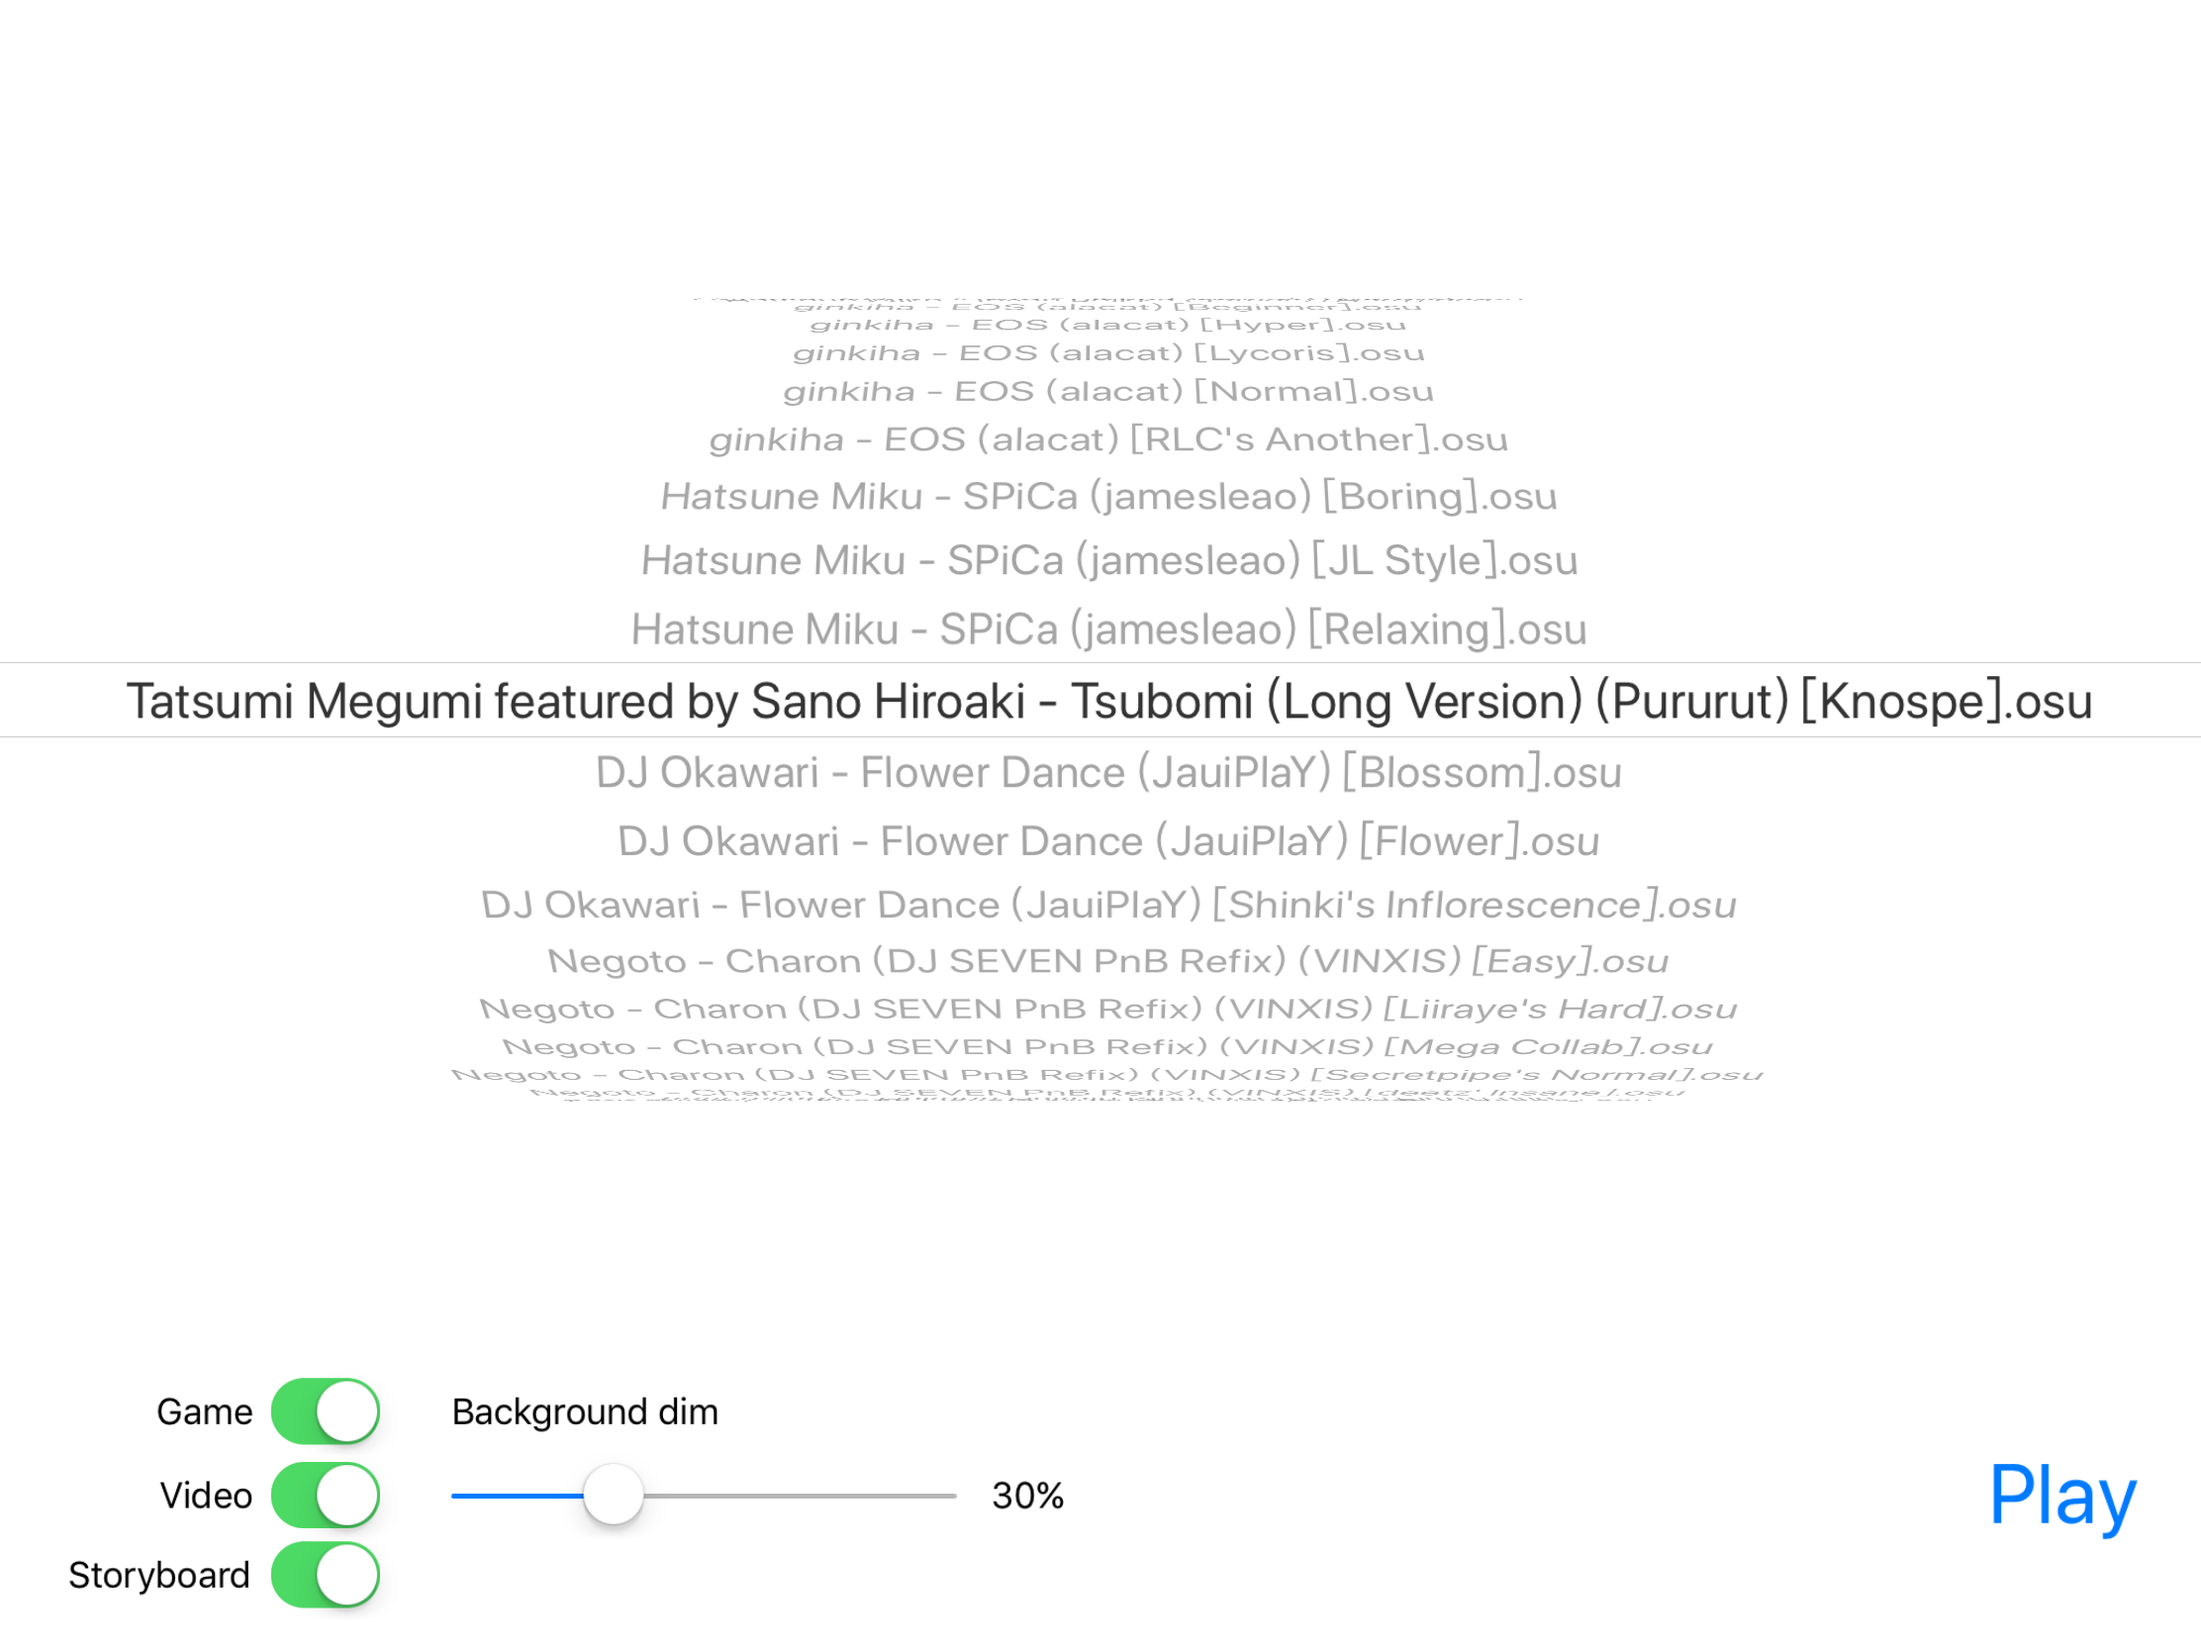
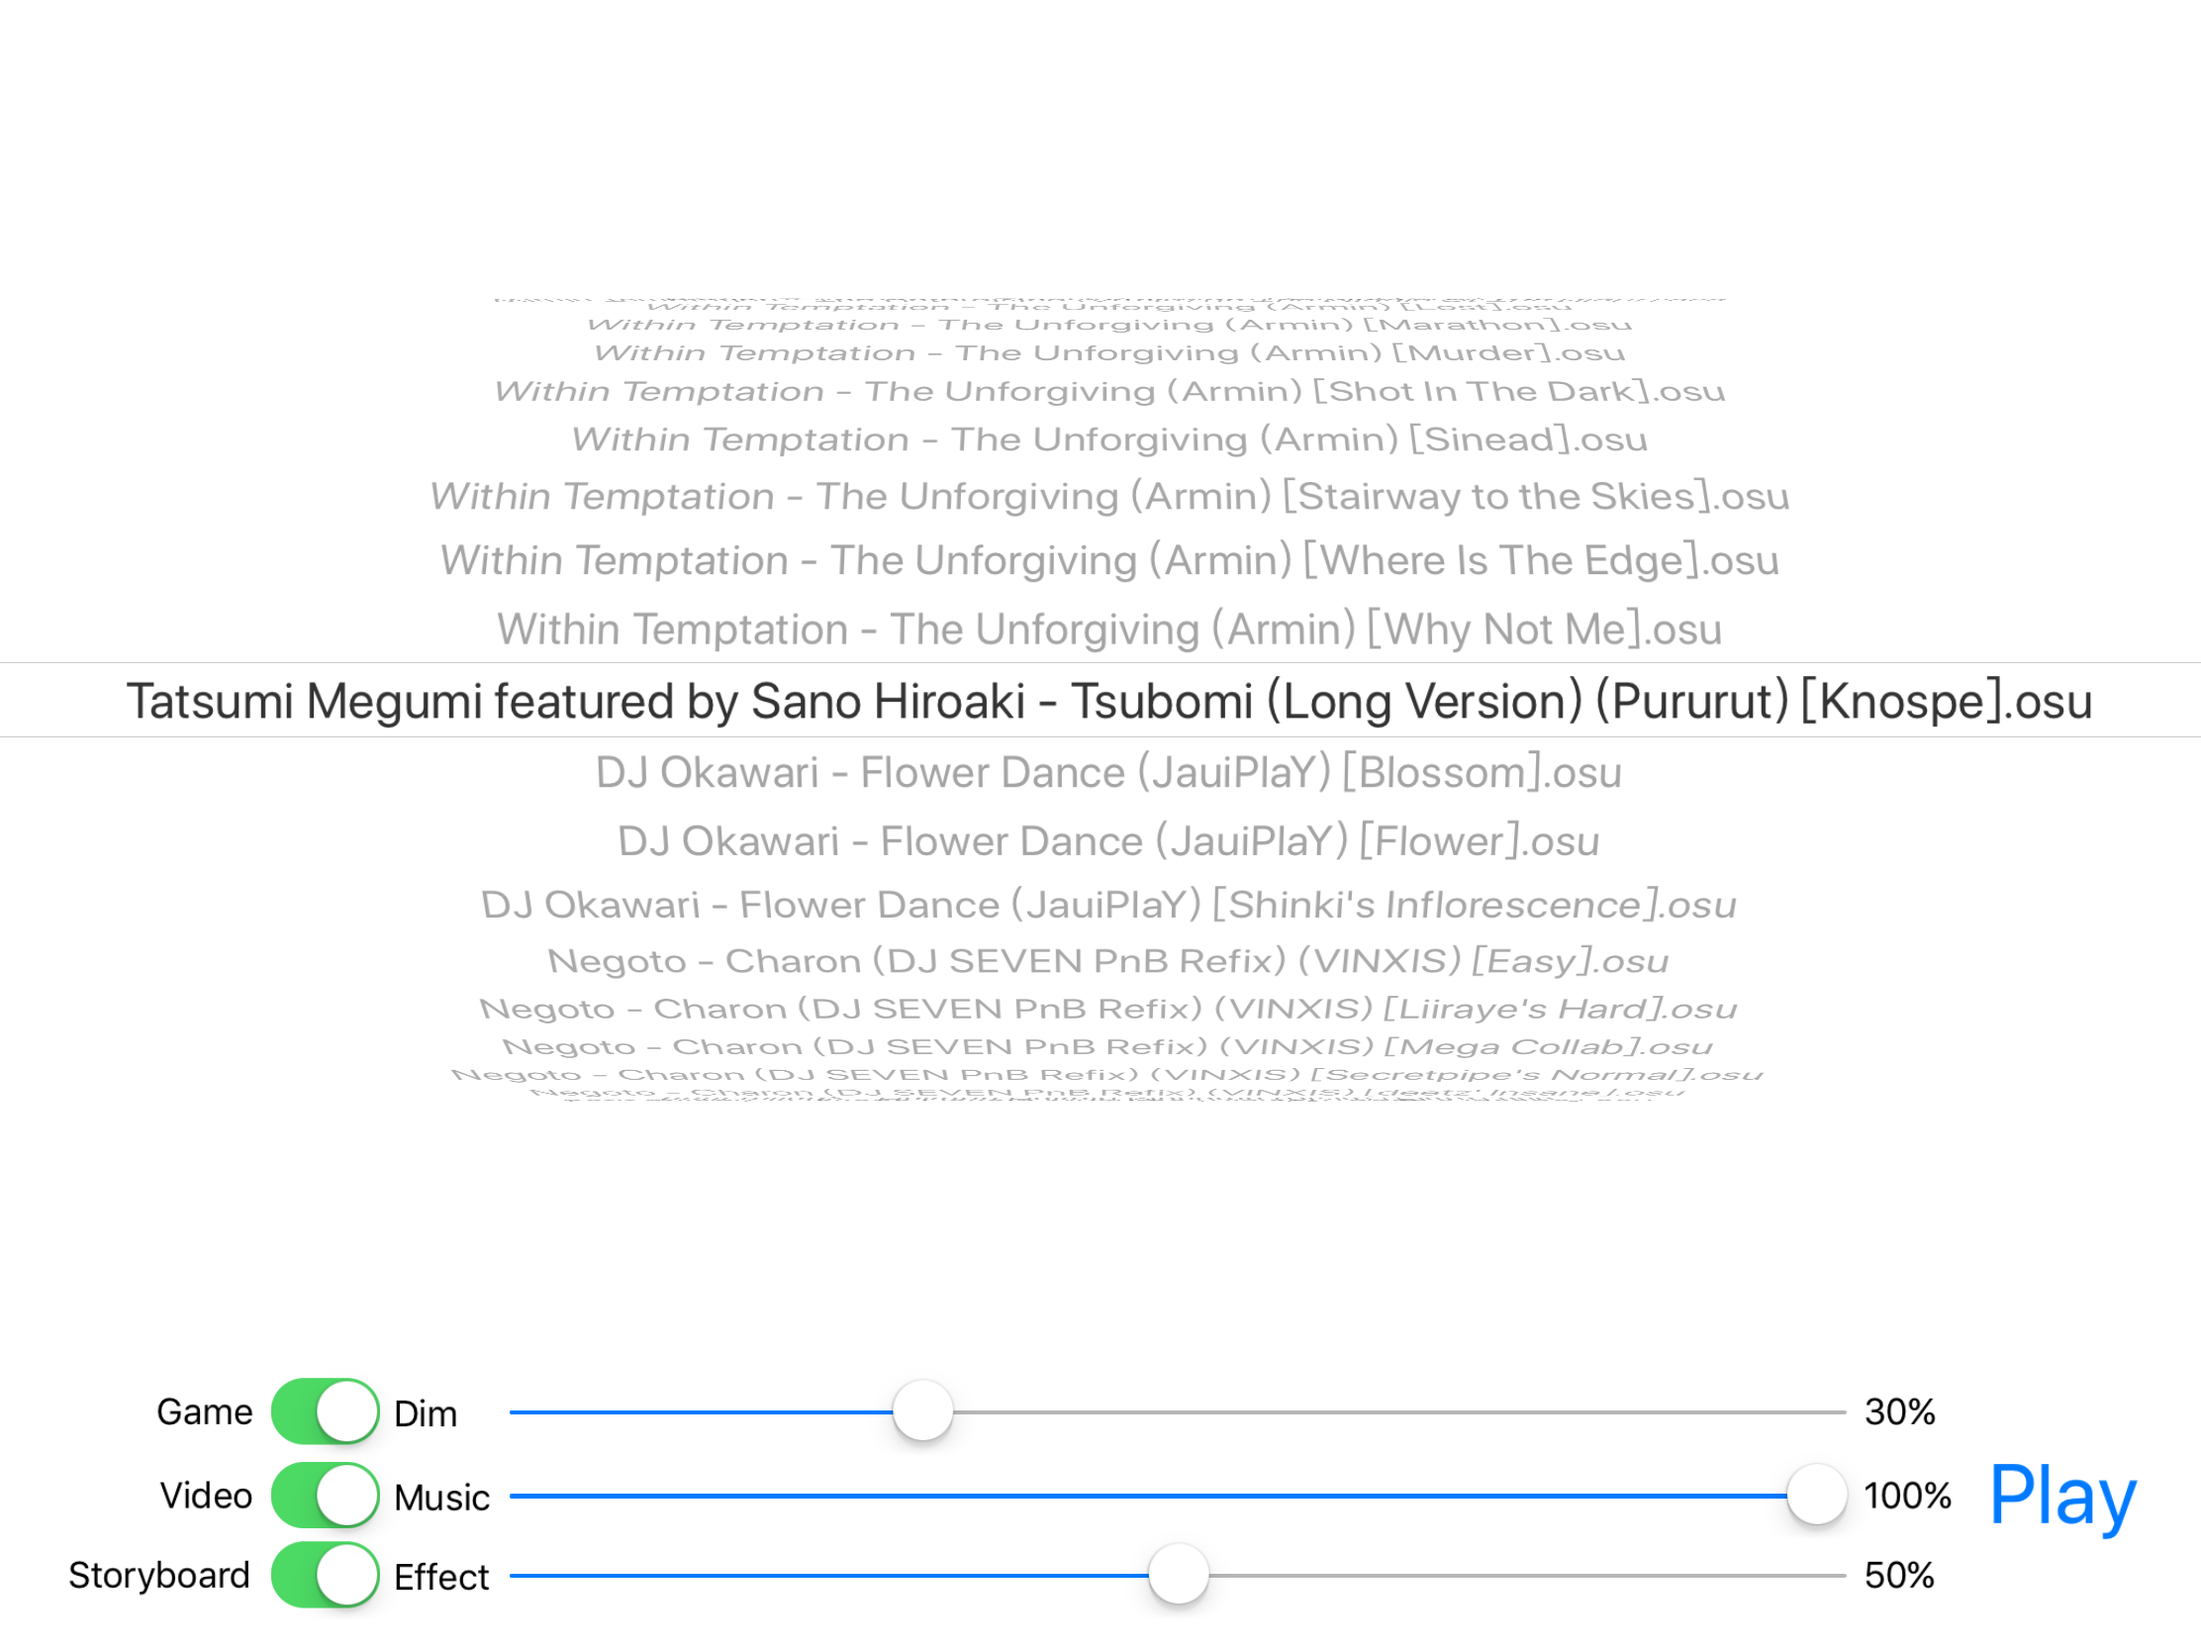
Add simple mixer for audios

diff --git a/iosu/Scenes/GamePlayScene.swift b/iosu/Scenes/GamePlayScene.swift
@@ -26,6 +26,7 @@ class GamePlayScene: SKScene {
     static var leftedge:Double=0
     static var bottomedge:Double=0
     static var bgdim:Double=0.2
+    static var effvolume:Float = 1.0
     
     private var actions:ActionSet?
     
@@ -177,9 +178,9 @@ class GamePlayScene: SKScene {
         node.zPosition = 100001
         self.addChild(node)
         if result != .Fail {
-            self.run(.playSoundFileNamed(audio, waitForCompletion: false))
+            self.run(.playSoundFileNamed(fileName: audio, atVolume: GamePlayScene.effvolume, waitForCompletion: true))
         } else {
-            self.run(.playSoundFileNamed("combobreak.mp3", waitForCompletion: false))
+            self.run(.playSoundFileNamed(fileName: "combobreak.mp3", atVolume: GamePlayScene.effvolume, waitForCompletion: true))
         }
         node.run(.group([.sequence([.fadeIn(withDuration: 0.2),.fadeOut(withDuration: 0.6),.removeFromParent()]),.sequence([.scale(by: 1.5, duration: 0.1),.scale(to: scale, duration: 0.1)])]))
     }
@@ -234,7 +235,7 @@ class GamePlayScene: SKScene {
             hastouch = false
             break
         case .EdgePass:
-            self.run(.playSoundFileNamed(hitaudioHeader + hitsound2str(hitsound: sact.getobj().hitSound), waitForCompletion: false))
+            self.run(.playSoundFileNamed(fileName: hitaudioHeader + hitsound2str(hitsound: sact.getobj().hitSound), atVolume: GamePlayScene.effvolume, waitForCompletion: true))
             break
         case .End:
             if sact.failcount > 0 {
@@ -247,10 +248,10 @@ class GamePlayScene: SKScene {
             hastouch = false
             break
         case .TickPass:
-            self.run(.playSoundFileNamed(hitaudioHeader + "slidertick.wav", waitForCompletion: false))
+            self.run(.playSoundFileNamed(fileName: hitaudioHeader + "slidertick.wav", atVolume: GamePlayScene.effvolume, waitForCompletion: true))
             break
         case .FailTick:
-            self.run(.playSoundFileNamed("combobreak.mp3", waitForCompletion: false))
+            self.run(.playSoundFileNamed(fileName: "combobreak.mp3", atVolume: GamePlayScene.effvolume, waitForCompletion: true))
             break
         default:
             break

diff --git a/iosu/ViewControllers/SelectionView.swift b/iosu/ViewControllers/SelectionView.swift
@@ -18,6 +18,10 @@ class SelectionViewController:UIViewController,UIPickerViewDelegate,UIPickerView
     @IBOutlet var sbSwitch: UISwitch!
     @IBOutlet var dimSlider: UISlider!
     @IBOutlet var dimLabel: UILabel!
+    @IBOutlet var musicSlider: UISlider!
+    @IBOutlet var musicLabel: UILabel!
+    @IBOutlet var effectSlider: UISlider!
+    @IBOutlet var effectLabel: UILabel!
     
     let bs=BeatmapScanner()
     
@@ -46,11 +50,21 @@ class SelectionViewController:UIViewController,UIPickerViewDelegate,UIPickerView
         GameViewController.showgame = gameSwitch.isOn
         GameViewController.showvideo = videoSwitch.isOn
         GameViewController.showsb = sbSwitch.isOn
+        BGMusicPlayer.bgmvolume = musicSlider.value/100
+        GamePlayScene.effvolume = effectSlider.value/100
         self.performSegue(withIdentifier: "play", sender: self.view)
     }
     
     @IBAction func dimChanged(_ sender: UISlider) {
         dimLabel.text = "\(Int(sender.value))%"
+    }
+    
+    @IBAction func musicChanged(_ sender: UISlider) {
+        musicLabel.text = "\(Int(sender.value))%"
+    }
+    
+    @IBAction func effectChanged(_ sender: UISlider) {
+        effectLabel.text = "\(Int(sender.value))%"
     }
     
     @IBAction func gameSwitched(_ sender: Any) {

diff --git a/iosu/MediaPlayers/PlaySoundFileNamedExt.swift b/iosu/MediaPlayers/PlaySoundFileNamedExt.swift
@@ -1,0 +1,32 @@
+//
+//  PlaySoundFileNamedExt.swift
+//  iosu
+//
+//  Created by 谢宜 on 2017/6/21.
+//  Copyright © 2017年 xieyi. All rights reserved.
+//
+//  Reference: https://gist.github.com/ainoya/a2c1cd026ad5d695e406
+import SpriteKit
+
+public extension SKAction {
+    public class func playSoundFileNamed(fileName: String, atVolume: Float, waitForCompletion: Bool) -> SKAction {
+        
+        do {
+            let player: AVAudioPlayer = try AVAudioPlayer(data: BundleAudioBuffer.get(file: fileName)!)
+            player.volume = atVolume
+            player.prepareToPlay()
+            let playAction = SKAction.run {
+                player.play()
+            }
+            if(waitForCompletion){
+                let waitAction = SKAction.wait(forDuration: player.duration)
+                let groupAction: SKAction = SKAction.group([playAction, waitAction])
+                return groupAction
+            }
+            return playAction
+        } catch let error {
+            debugPrint("\(fileName) caused: \(error.localizedDescription)")
+        }
+        return .run{}
+    }
+}

diff --git a/iosu/MediaPlayers/BundleAudioBuffer.swift b/iosu/MediaPlayers/BundleAudioBuffer.swift
@@ -1,0 +1,36 @@
+//
+//  BundleAudioBuffer.swift
+//  iosu
+//
+//  Created by 谢宜 on 2017/6/21.
+//  Copyright © 2017年 xieyi. All rights reserved.
+//
+
+import Foundation
+
+class BundleAudioBuffer{
+    
+    static var buffer=[String:Data]()
+    
+    static func addtobuffer(file:String) {
+        if buffer[file] != nil {
+            return
+        }
+        
+        let nameOnly = (file as NSString).deletingPathExtension
+        let fileExt  = (file as NSString).pathExtension
+        
+        let soundPath = Bundle.main.url(forResource: nameOnly, withExtension: fileExt)
+        let audio = NSData(contentsOf: soundPath!)
+        buffer[file]=audio as Data?
+    }
+    
+    static func get(file:String) -> Data? {
+        addtobuffer(file: file)
+        if buffer[file] != nil {
+            return buffer[file]!
+        }
+        return nil
+    }
+    
+}

diff --git a/iosu/Beatmap/Renderer/CircleAction.swift b/iosu/Beatmap/Renderer/CircleAction.swift
@@ -97,7 +97,7 @@ class CircleAction:HitObjectAction {
             scene.addChild(self.appcircle)
             self.appcircle.run(.sequence([.group([.fadeIn(withDuration: artime/3),.scale(to: 1, duration: artime)]),.removeFromParent()]))
             }])
-        let failact = SKAction.sequence([.wait(forDuration: artime+offset/1000+(ActionSet.difficulty?.Score50)!/1000),SKAction.playSoundFileNamed("combobreak.mp3", waitForCompletion: false),.run {
+        let failact = SKAction.sequence([.wait(forDuration: artime+offset/1000+(ActionSet.difficulty?.Score50)!/1000),SKAction.playSoundFileNamed(fileName: "combobreak.mp3", atVolume: GamePlayScene.effvolume, waitForCompletion: false),.run {
             ActionSet.current?.pointer+=1
             self.inner.run(CircleAction.faildisappear)
             self.overlay.run(CircleAction.faildisappear)

diff --git a/iosu/MediaPlayers/BGMusicPlayer.swift b/iosu/MediaPlayers/BGMusicPlayer.swift
@@ -19,11 +19,13 @@ class BGMusicPlayer{
     public static var sbEarliest:Int = 0
     public static var gameScene:GamePlayScene?
     public static var sbScene:StoryBoardScene?
+    public static var bgmvolume:Float = 1.0
     
     static func setfile(file:String) {
         let url=URL(fileURLWithPath: file)
         self.musicPlayer = try! AVAudioPlayer(contentsOf: url)
         self.musicPlayer.numberOfLoops=0
+        self.musicPlayer.volume = bgmvolume
     }
     
     private static var starttime:Double = 0
